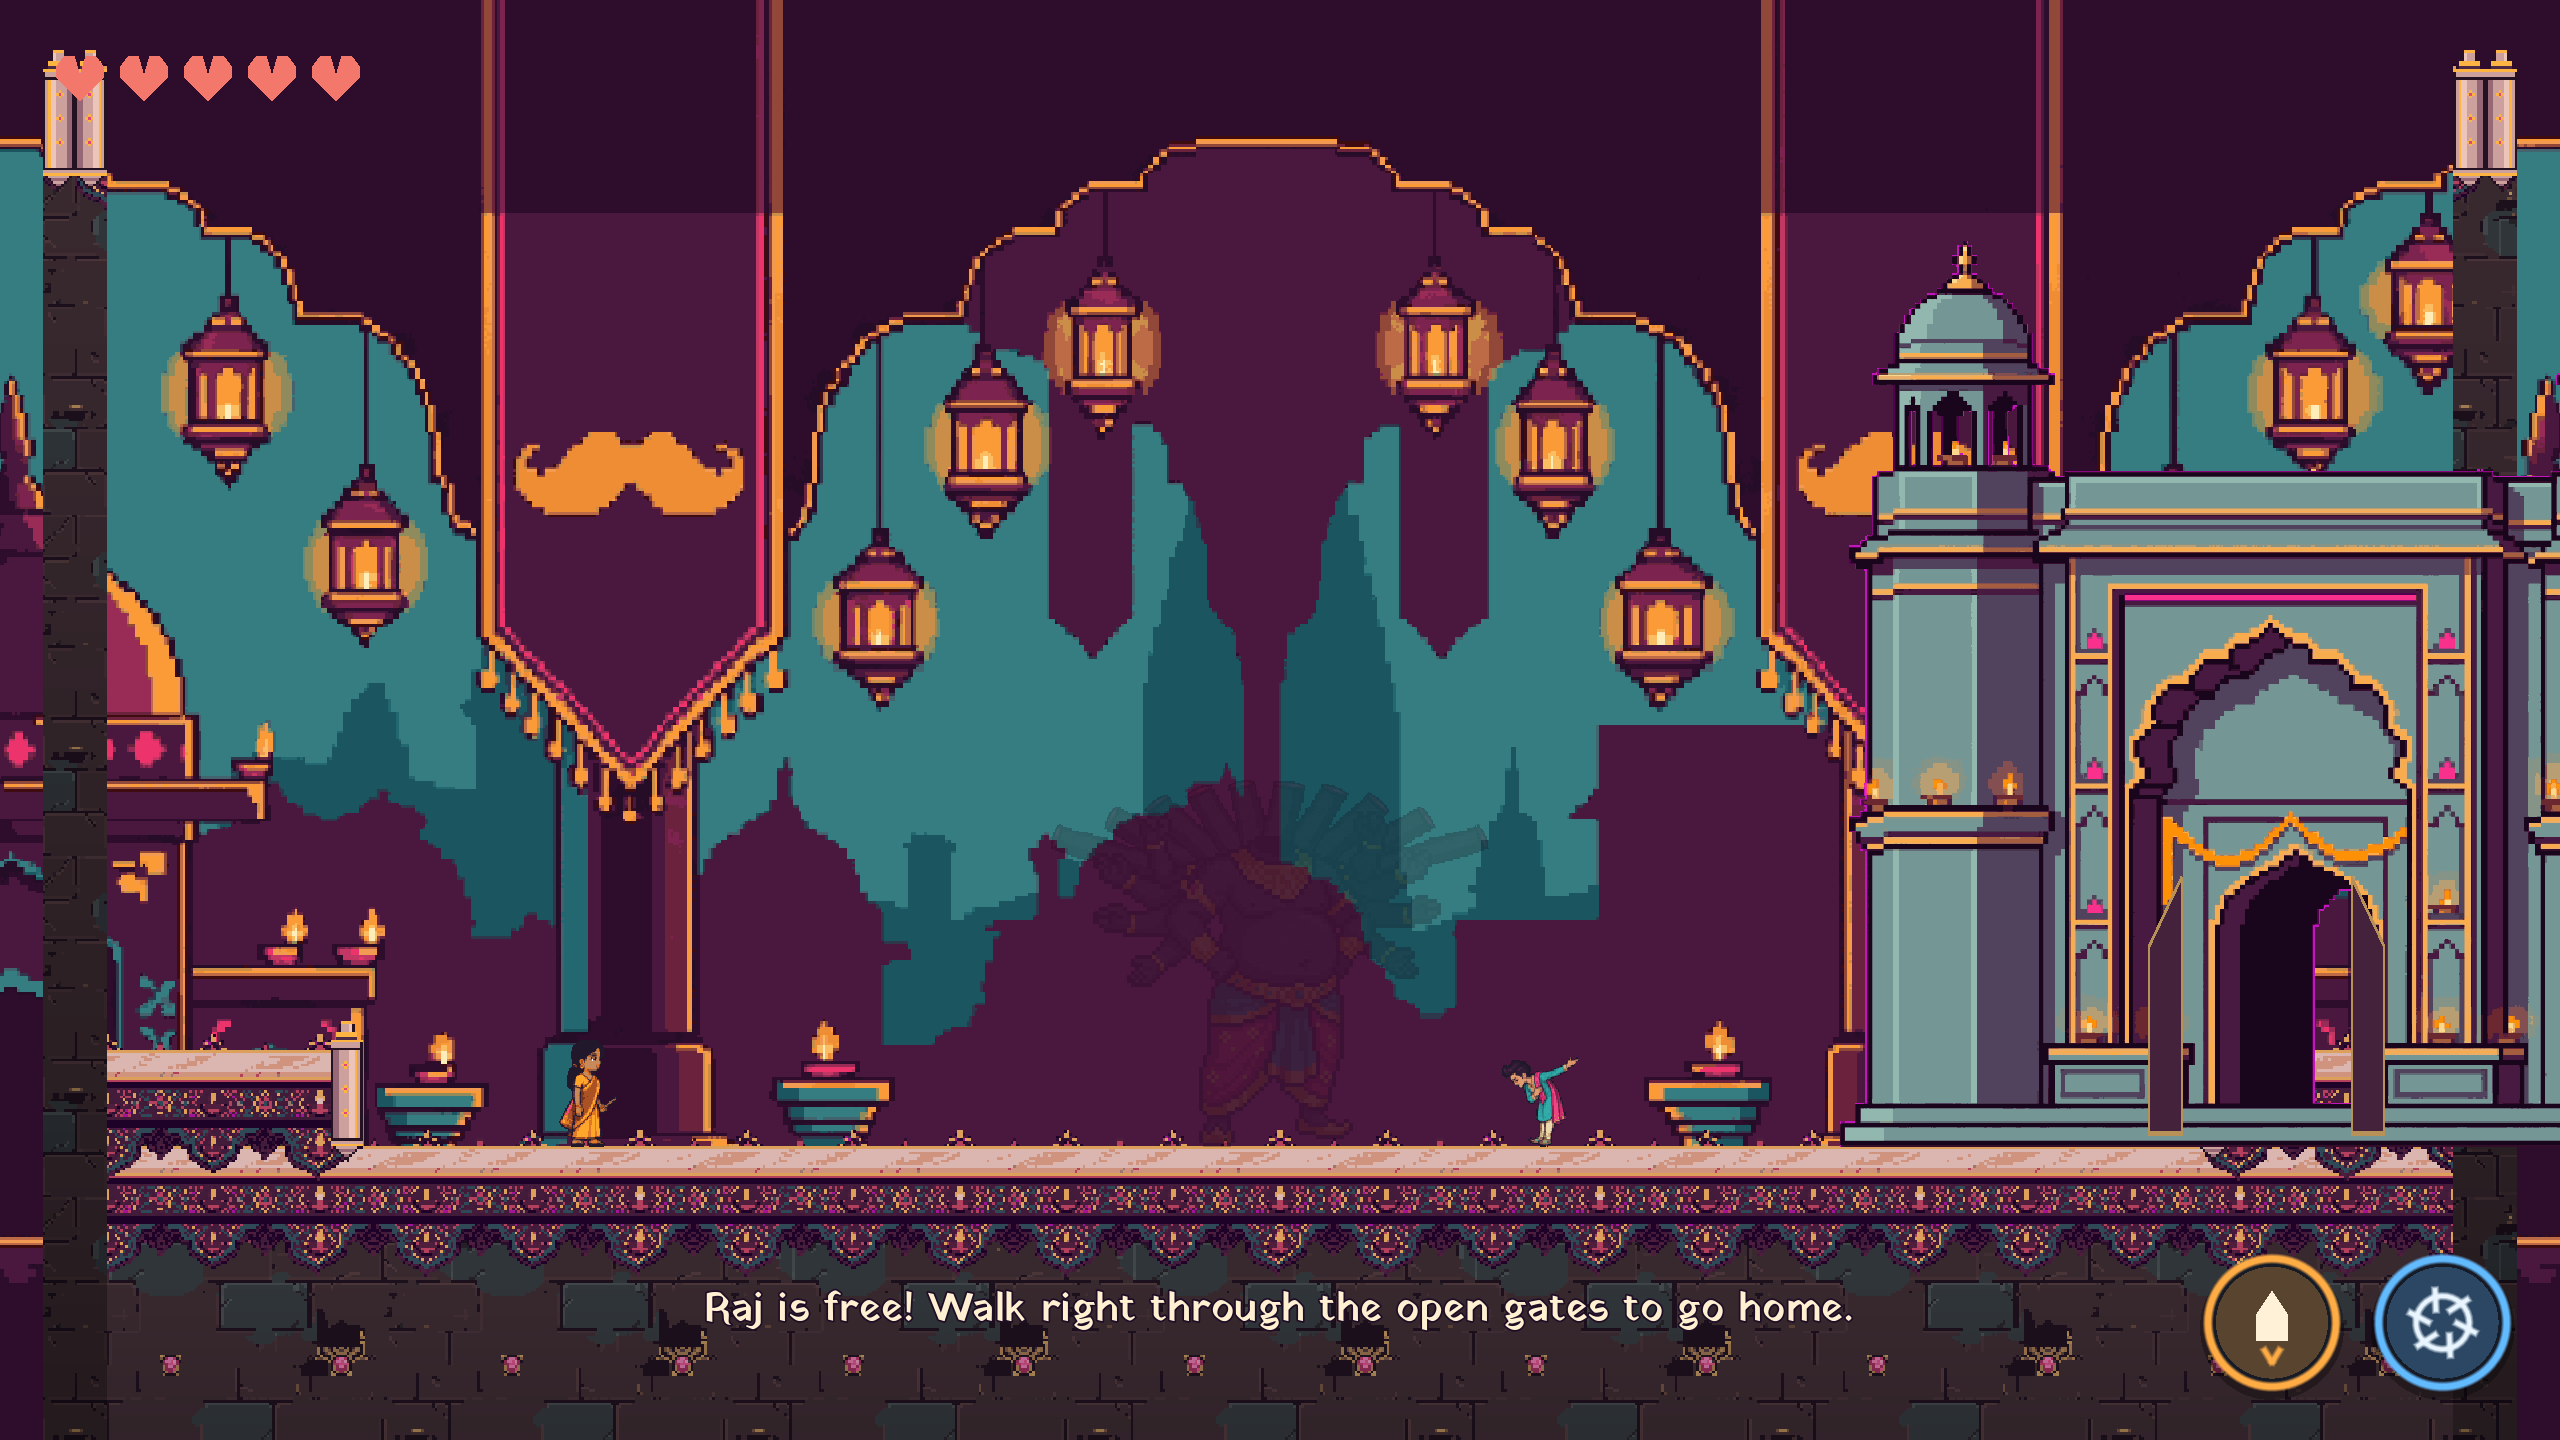
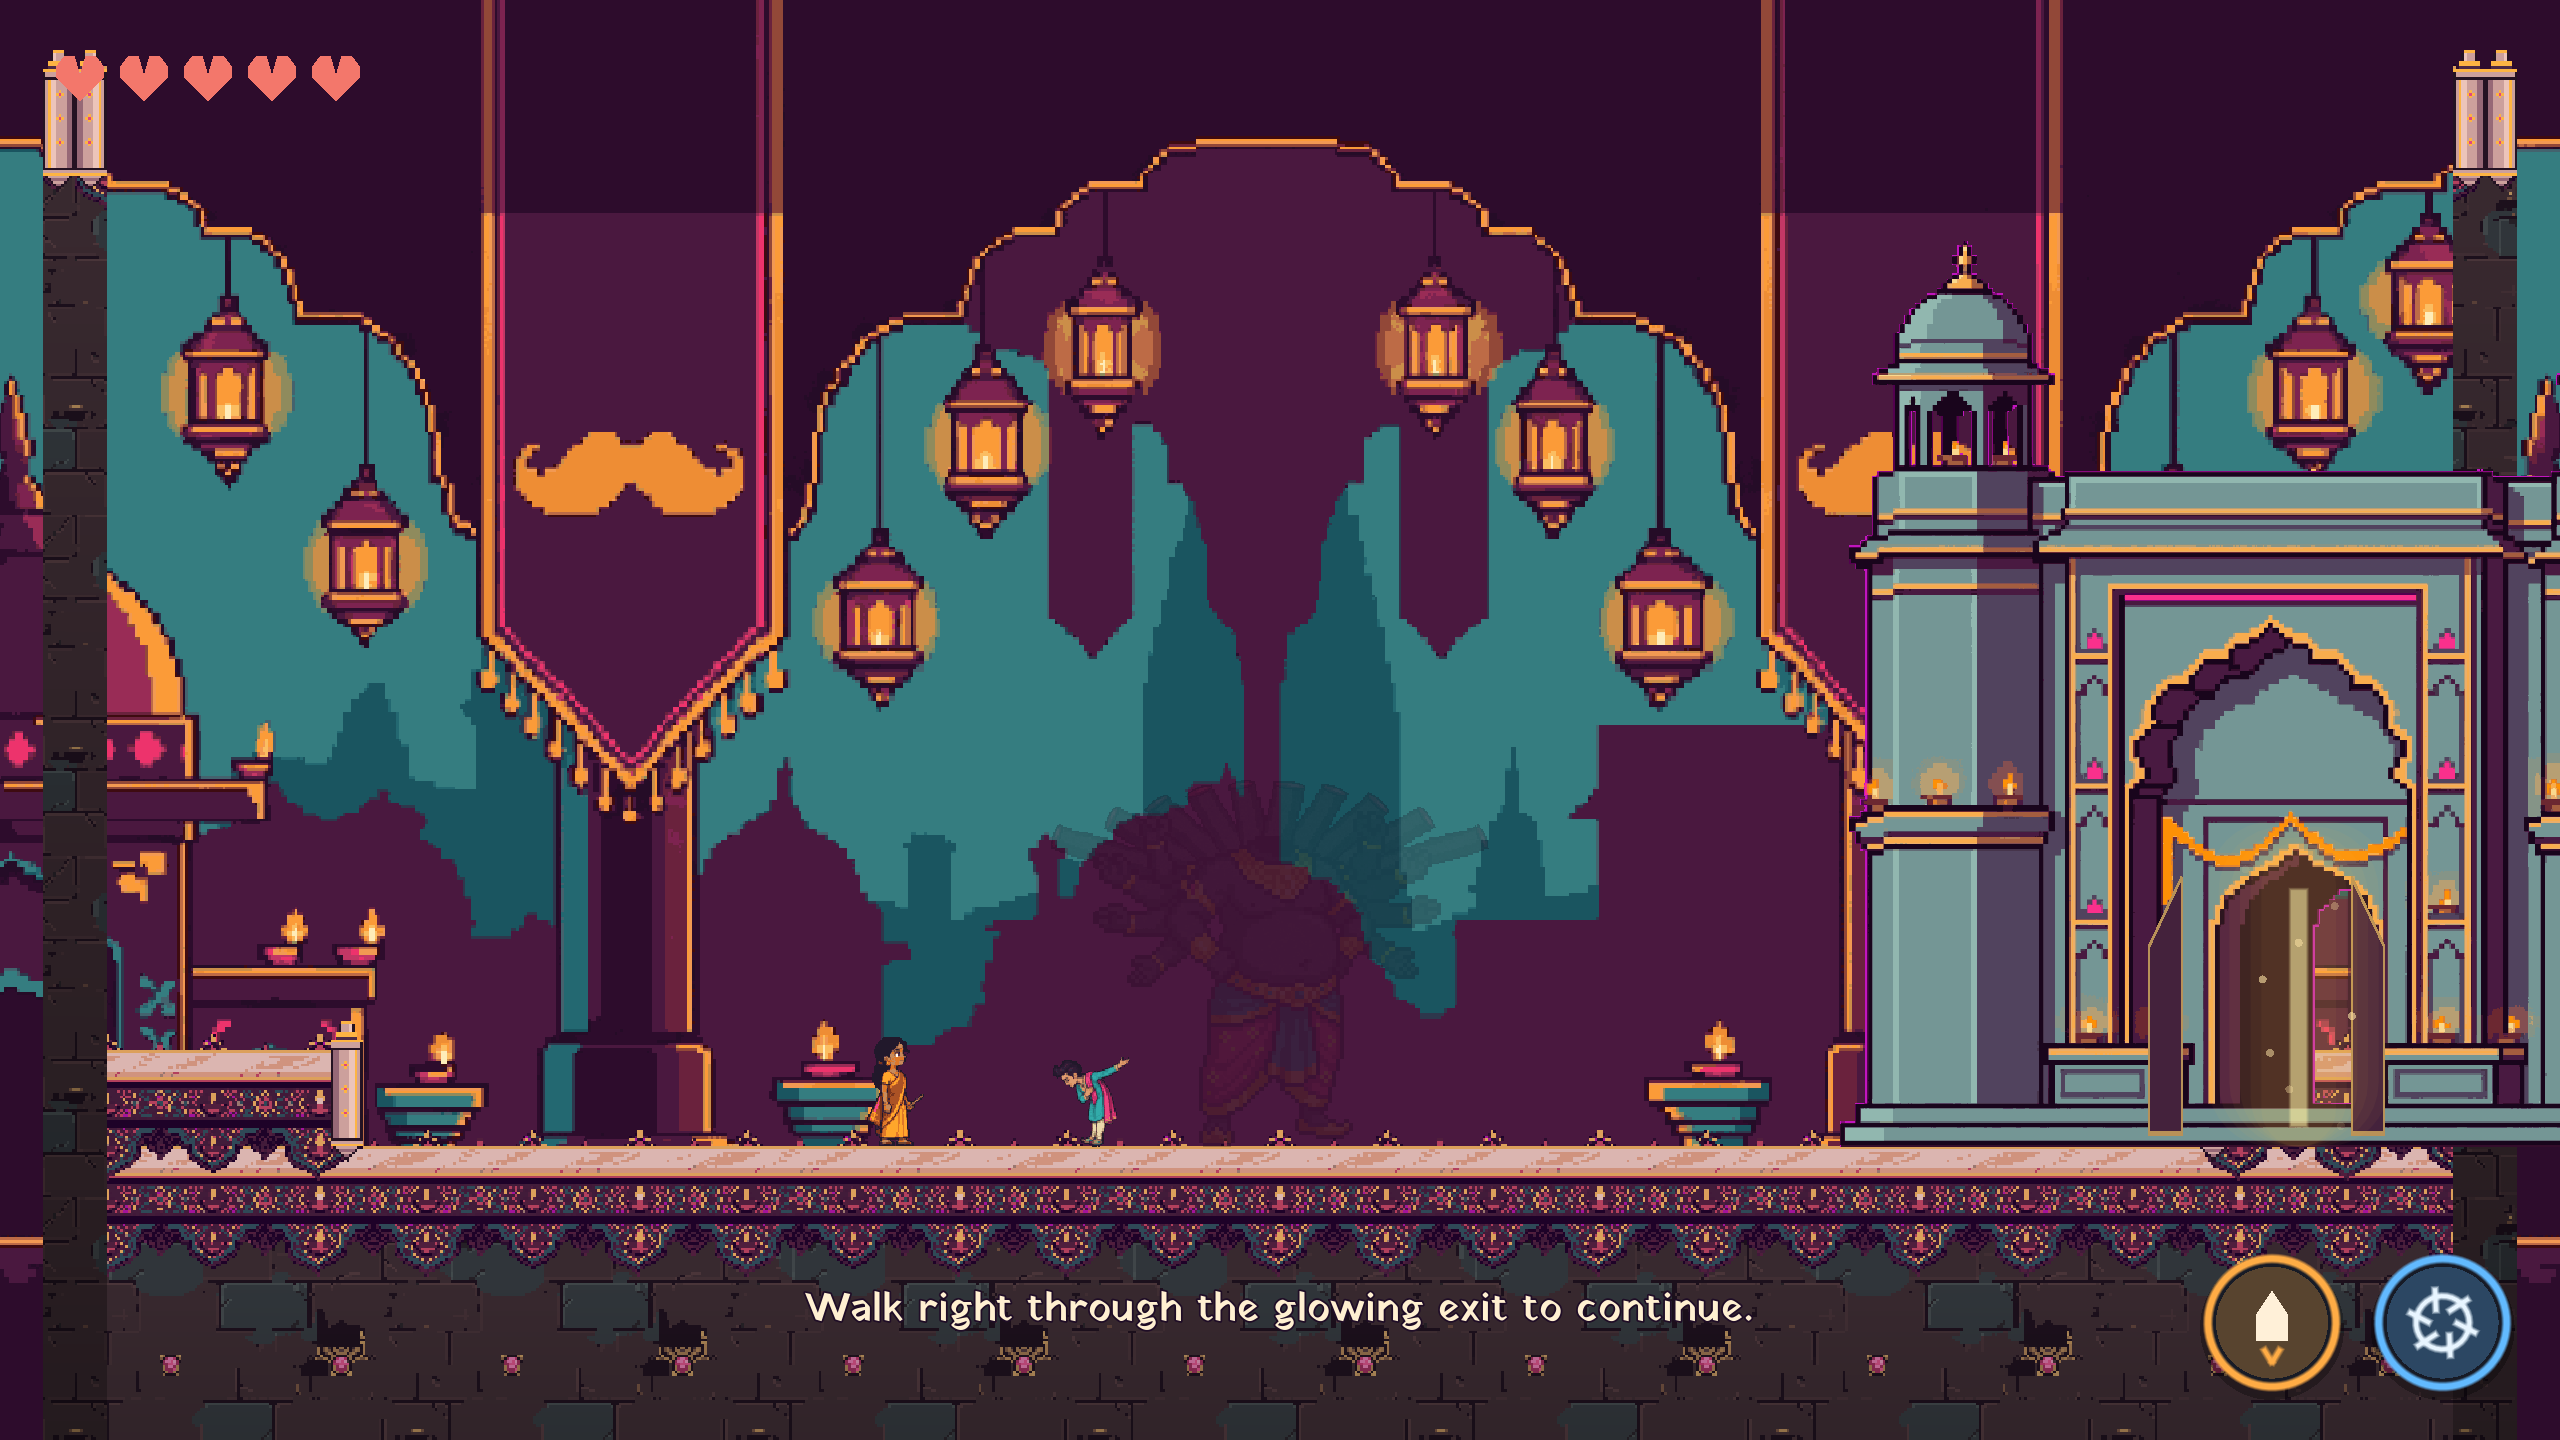
fix: trigger boss aftermaths at glowing exits

diff --git a/docs/ending_flow.md b/docs/ending_flow.md
@@ -1,10 +1,17 @@
 # Campaign finale
 
-The palace showdown keeps the existing introduction, final boss death animation,
-Raj cage release and all ten aftermath panels, including Robin's allegiance
-reveal. After the reader closes the dialogue, the palace gates open and Raj
-joins Siya on the floor. Walk right through the gates to reach the Diwali
-victory screen. Enter and the hidden boss result button cannot skip this walk.
+All three campaign showdowns keep their existing introductions, death animations
+and aftermath dialogue. Defeating Khara, Dhoomketu or Swaminathan unlocks a pulsing
+golden exit on the right and leaves Siya free to move. The palace gates open and
+Raj joins Siya immediately after Swaminathan's defeat.
+
+Walk into the glow to freeze the arena and close the existing curtain fabric.
+Only after the curtains fully close does the aftermath dialogue appear. Closing
+the final panel advances directly to the next campaign stage, or the Diwali
+victory screen after Swaminathan. Robin's allegiance reveal and all other story
+panels are preserved. Enter and hidden result controls cannot skip the walk.
+Pausing suspends the curtain close; restarting or leaving discards the local
+transition along with its scene.
 
 The ending keeps the existing village backdrop, fireworks and approved Siya/Raj
 sprites. Raj stays in his freed pose. Return to title, Start a new journey and
@@ -13,19 +20,22 @@ controller's back action returns to title. A new journey opens the prologue;
 replaying the finale starts a fresh palace showdown with its introduction.
 
 Developer snapshots and isolated boss arenas retain the shared boss result
-buttons and their developer-menu routing. Other boss defeat sequences are
-unchanged.
+buttons and their developer-menu routing. Boss attacks and death sequences
+are unchanged.
 
 ## Persistence integration contract
 
 This change adds no shared campaign state or disk writes. Arena `completed` and
 `CampaignFlow.won` still mean the boss fight is won, not that the campaign escape
 has finished. `PalaceEscape.unlocked` and `CampaignFlow._escape_ready` are local
-scene state, set only after the final dialogue closes.
+scene state, set after the boss defeat. `CampaignFlow._transitioning` means
+Siya entered the glow and the curtain/dialogue sequence has started.
 
-The campaign completion boundary is `CampaignFlow.finish_escape()`, called by
-the palace exit for a living Siya. It routes to `res://scenes/main/ending.tscn`.
-The save/load thread can record campaign completion at that boundary and restore
+Each `BossExit` calls `CampaignFlow.finish_escape()` for a living Siya inside its
+area. This begins the curtain/dialogue sequence, not campaign completion. The
+completion boundary is `CampaignFlow._change_destination()` after the palace
+aftermath finishes, routing to `res://scenes/main/ending.tscn`. The save/load
+thread can record campaign completion at that boundary and restore
 completed saves to the ending. Loading the ending alone must not award completion:
 it is also available through developer navigation. Starting a new journey should
 use the same persistent reset contract as the title's New Game. Replay finale
@@ -34,7 +44,8 @@ should retain a previously earned completion while resetting the encounter.
 ## Validation
 
 `campaign_flow_check.gd` exercises the campaign stage transitions, final hit,
-death animation, dialogue ordering, gate traversal with real movement, and each
+death animation, real movement into all three exits, curtain-before-dialogue
+ordering, pause/resume during closure, unchanged story panels, and each
 victory-screen destination. `playtest_menu_check.gd` follows the finale route and
 checks snapshot navigation. `cast_gameplay_check.gd` verifies Raj remains freed
 at native art scale and that the result controls retain focus.
@@ -46,5 +57,7 @@ Native-window checks used an assisted boss defeat and dialogue advance, then
 keyboard movement through the gates and ending navigation. This does not replace
 a full human playthrough of the final boss or a physical-controller check.
 
-Rendered captures: [open gates](screenshots/ending/open-gates.png) and
+Rendered captures: [forest exit](screenshots/ending/forest-exit.png),
+[river exit](screenshots/ending/river-exit.png), [open palace gates](screenshots/ending/open-gates.png),
+[curtain close](screenshots/ending/curtain-close.png), and
 [victory screen](screenshots/ending/victory.png).
